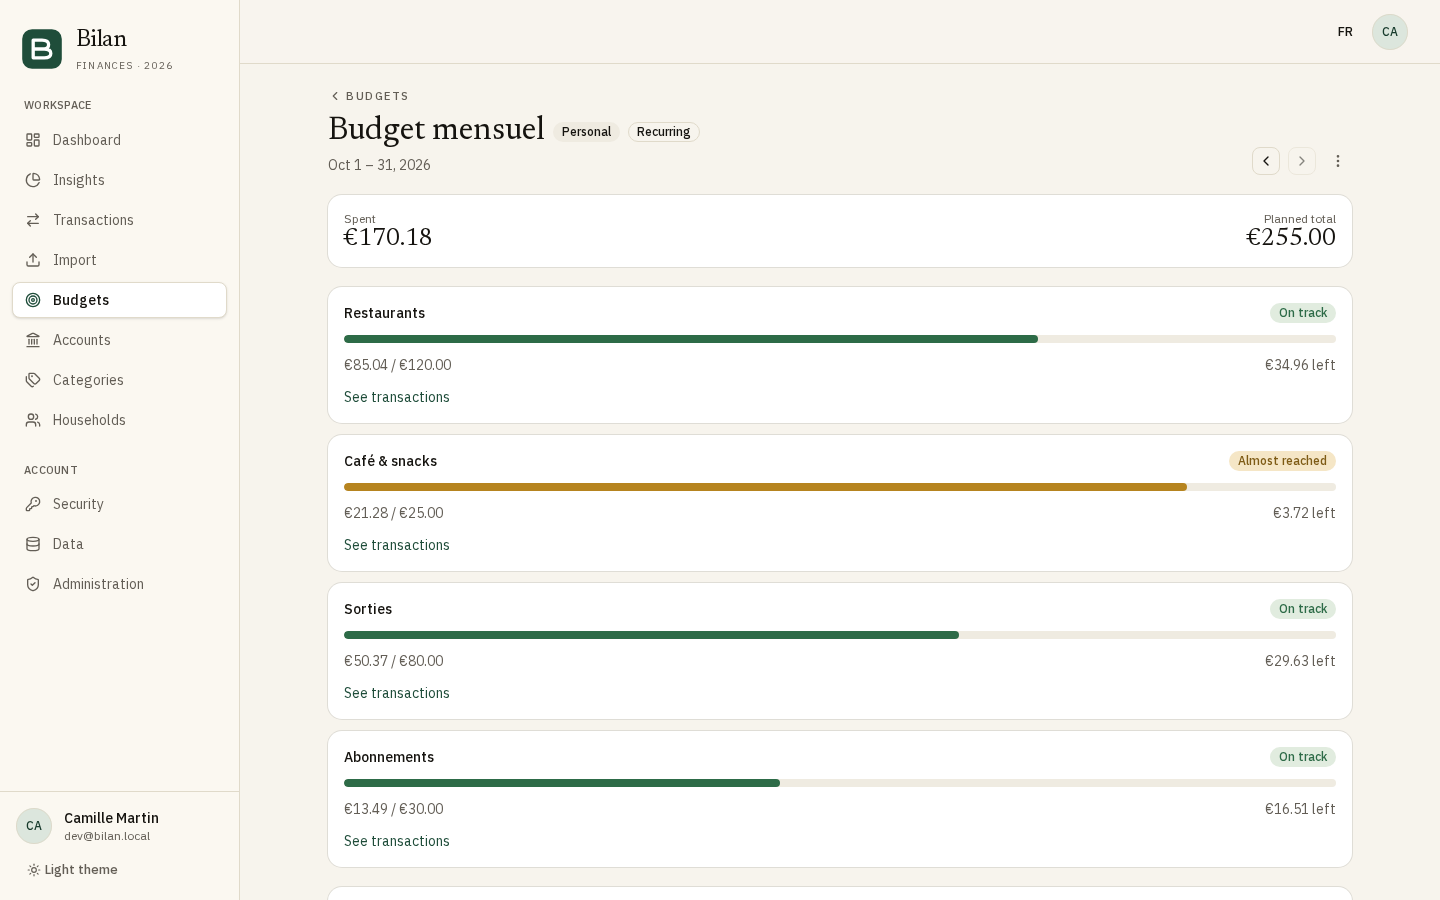
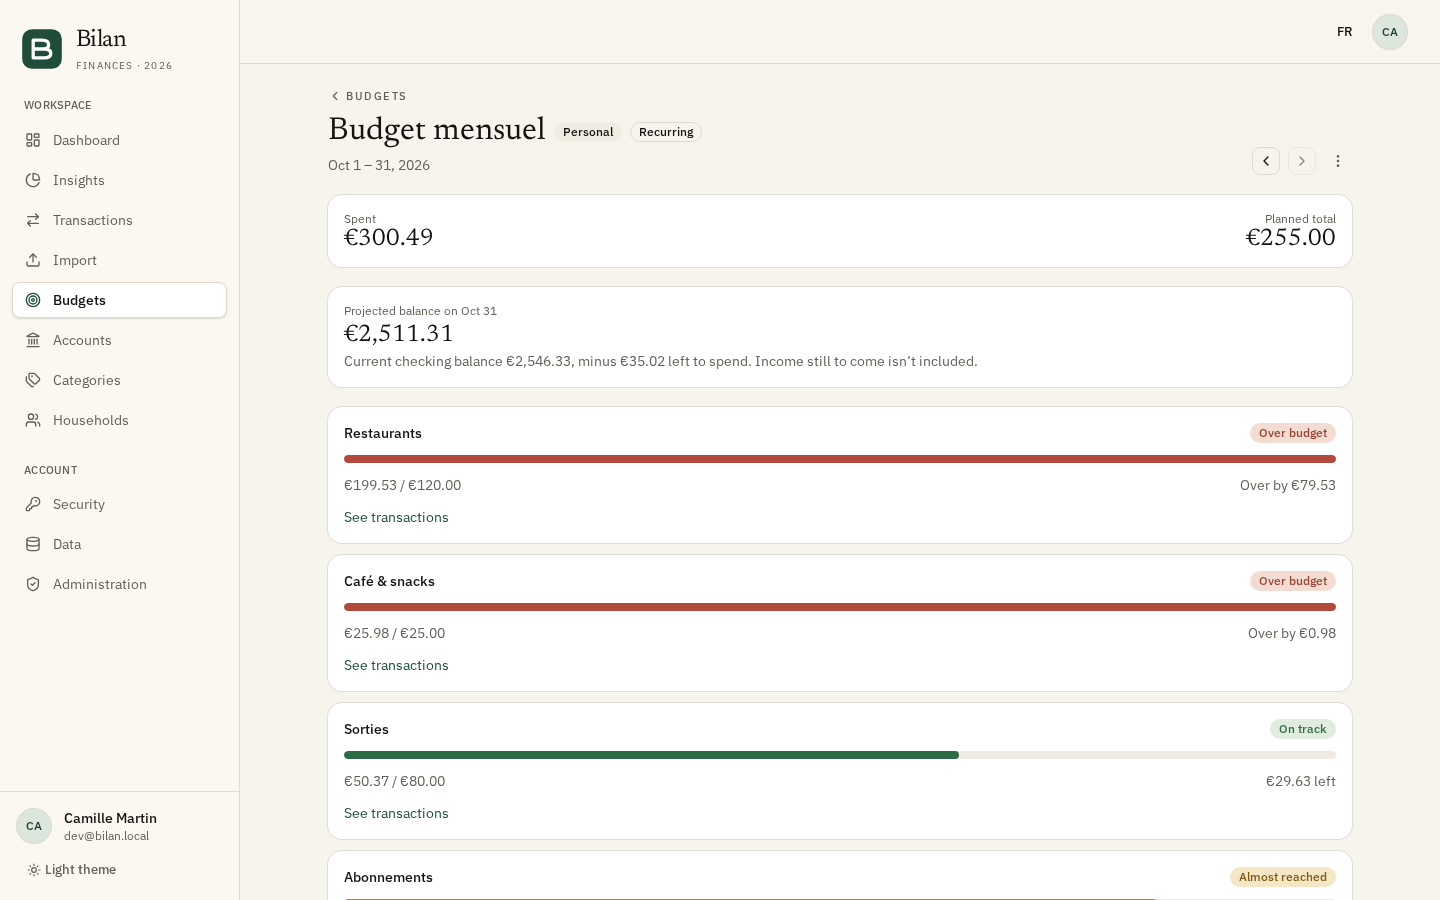
feat: show the projected end-of-period balance on the current budget

diff --git a/tests/integration/budgets.test.ts b/tests/integration/budgets.test.ts
@@ -1003,3 +1003,99 @@ describe("archive / description / line labels", () => {
     }
   });
 });
+
+describe("forecast (#347)", () => {
+  const user = "bud_forecast";
+  const inMarch = { now: new Date("2026-03-15T12:00:00.000Z") };
+  let checking: string;
+  let foodCat: string;
+
+  async function txFor(account: string, date: string, amount: number, categoryId: string | null) {
+    const s = buildSecureFields({ label: "T", rawLabel: "T" });
+    await db.transaction.create({
+      data: {
+        accountId: account,
+        date: new Date(date),
+        amount,
+        type: "OTHER",
+        labelEnc: s.labelEnc,
+        labelHash: s.labelHash,
+        rawLabelEnc: s.rawLabelEnc,
+        rawLabelHash: s.rawLabelHash,
+        categoryId,
+        createdById: user,
+      },
+    });
+  }
+
+  beforeAll(async () => {
+    await db.user.deleteMany({ where: { id: user } });
+    await db.user.create({ data: { id: user, email: `${user}@bilan.local` } });
+    checking = (
+      await db.bankAccount.create({
+        data: { ownerId: user, name: "Courant", type: "CHECKING", initialBalance: 1000 },
+      })
+    ).id;
+    const savings = await db.bankAccount.create({
+      data: { ownerId: user, name: "Livret", type: "SAVINGS", initialBalance: 5000 },
+    });
+    foodCat = (await db.category.create({ data: { userId: user, name: "Courses" } })).id;
+    const rentCat = (await db.category.create({ data: { userId: user, name: "Loyer" } })).id;
+    await txFor(checking, "2026-03-03T00:00:00.000Z", -150, foodCat);
+    await txFor(checking, "2026-03-01T00:00:00.000Z", -700, rentCat);
+    await txFor(savings.id, "2026-03-05T00:00:00.000Z", 100, null);
+    await db.budget.deleteMany({ where: { userId: user } });
+    await createBudget(
+      {
+        ...baseInput,
+        lines: [
+          { categoryId: foodCat, plannedAmount: 400 },
+          { categoryId: rentCat, plannedAmount: 600 },
+        ],
+      },
+      { id: user },
+    );
+  });
+
+  afterAll(async () => {
+    await db.budget.deleteMany({ where: { userId: user } });
+    await db.bankAccount.deleteMany({ where: { ownerId: user } });
+    await db.category.deleteMany({ where: { userId: user } });
+    await db.user.deleteMany({ where: { id: user } });
+  });
+
+  async function budgetId() {
+    return (await db.budget.findFirstOrThrow({ where: { userId: user } })).id;
+  }
+
+  it("projects the checking balance minus what the lines still plan to spend", async () => {
+    const detail = await getBudgetDetail(await budgetId(), user, inMarch);
+    // Checking 1000 − 150 − 700 = 150; food has 250 left, rent is over (counts 0).
+    expect(detail.forecast).toEqual({ balance: 150, remaining: 250, endBalance: -100 });
+  });
+
+  it("is absent outside the budget period", async () => {
+    const before = await getBudgetDetail(await budgetId(), user, {
+      now: new Date("2026-02-28T12:00:00.000Z"),
+    });
+    const after = await getBudgetDetail(await budgetId(), user, {
+      now: new Date("2026-04-01T12:00:00.000Z"),
+    });
+    expect(before.forecast).toBeNull();
+    expect(after.forecast).toBeNull();
+  });
+
+  it("is absent when the budget draws from no checking account", async () => {
+    await db.bankAccount.update({ where: { id: checking }, data: { archived: true } });
+    try {
+      expect((await getBudgetDetail(await budgetId(), user, inMarch)).forecast).toBeNull();
+    } finally {
+      await db.bankAccount.update({ where: { id: checking }, data: { archived: false } });
+    }
+  });
+
+  it("reaches the dashboard's current budget", async () => {
+    const current = await getCurrentBudget(user, inMarch.now);
+    expect(current?.detail.forecast?.endBalance).toBe(-100);
+  });
+});

diff --git a/src/server/services/budgets/index.ts b/src/server/services/budgets/index.ts
@@ -7,6 +7,7 @@ import { requireGroupRole } from "@/server/services/groups/roles";
 import { groupMemberships } from "@/server/services/groups/memberships";
 import { logEvent } from "@/server/services/audit";
 import {
+  accountBalances,
   listVisibleForUser,
   visibleAccountIds,
   visibleAccountRefs,
@@ -603,6 +604,7 @@ export type BudgetDetail = {
   plannedTotal: number;
   spentTotal: number;
   outOfBudget: { spent: number; count: number } | null; // INCLUDEs no line matches (#345)
+  forecast: BudgetForecast | null;
   groupId: string | null;
   canManage: boolean;
   previousId: string | null; // neighbouring periods of the same recurring series
@@ -745,10 +747,31 @@ async function budgetTransactions(
   );
 }
 
+export type BudgetForecast = { balance: number; remaining: number; endBalance: number };
+
+// Projected balance at the end of the current period (#347): the scope's checking
+// accounts minus what the lines still plan to spend. Income to come isn't anticipated.
+async function budgetForecast(
+  b: { userId: string | null; groupId: string | null; periodStart: Date; periodEnd: Date },
+  lines: { remaining: number }[],
+  now: Date,
+): Promise<BudgetForecast | null> {
+  if (now < b.periodStart || now > b.periodEnd) return null;
+  const accounts = await db.bankAccount.findMany({
+    where: { id: { in: await budgetAccountIds(b) }, type: "CHECKING", archived: false },
+    select: { id: true, initialBalance: true },
+  });
+  if (accounts.length === 0) return null;
+  const balances = await accountBalances(accounts);
+  const balance = round2([...balances.values()].reduce((sum, v) => sum + v, 0));
+  const remaining = round2(lines.reduce((sum, l) => sum + Math.max(l.remaining, 0), 0));
+  return { balance, remaining, endBalance: round2(balance - remaining) };
+}
+
 export async function getBudgetDetail(
   id: string,
   viewerId: string,
-  { withTransactions = true }: { withTransactions?: boolean } = {},
+  { withTransactions = true, now = new Date() }: { withTransactions?: boolean; now?: Date } = {},
 ): Promise<BudgetDetail> {
   const b = await readableOrThrow(id, viewerId);
   const { lineSums, outOfBudget, totalSum, counted } = await computeBudgetSpend(
@@ -789,6 +812,7 @@ export async function getBudgetDetail(
             spent: round2(-outOfBudget.reduce((sum, r) => sum + r.amount, 0)),
             count: outOfBudget.length,
           },
+    forecast: await budgetForecast(b, lines, now),
     canManage: canManageBudget(b.groupId, roleByGroup),
     ...(await seriesNeighbours(b)),
     transactions: withTransactions ? await budgetTransactions(counted, viewerId, b.groupId) : [],
@@ -819,7 +843,7 @@ export async function getCurrentBudget(
   });
   if (current.length === 0) return null;
   const first = current.find((b) => !b.groupId) ?? current[0];
-  const detail = await getBudgetDetail(first.id, userId, { withTransactions: false });
+  const detail = await getBudgetDetail(first.id, userId, { withTransactions: false, now });
   const names = await readableAccountNames(userId);
   const accountNames = Object.fromEntries(
     detail.lines.flatMap((l) =>

diff --git a/src/components/dashboard/budget-snapshot.tsx b/src/components/dashboard/budget-snapshot.tsx
@@ -8,7 +8,7 @@ import { OrdinalText } from "@/components/ordinal-text";
 import type { FlatCategory } from "@/components/transactions/category-tree";
 import type { getCurrentBudget } from "@/server/services/budgets";
 import { BudgetBar, statusStyle } from "@/components/budgets/budget-status";
-import { formatDateRange, formatMoney } from "@/lib/format";
+import { formatDateRange, formatDayMonth, formatMoney } from "@/lib/format";
 
 export type CurrentBudget = Awaited<ReturnType<typeof getCurrentBudget>>;
 
@@ -56,6 +56,22 @@ export async function BudgetSnapshot({
           <ChevronRight className="size-4" />
         </Link>
       </div>
+      {detail.forecast && (
+        <div
+          data-slot="budget-snapshot-forecast"
+          className="flex items-baseline justify-between gap-2 text-sm"
+        >
+          <span className="text-muted-foreground">
+            {t("forecast.title", { date: formatDayMonth(detail.periodEnd, locale) })}
+          </span>
+          <span
+            className="shrink-0 font-medium tabular-nums"
+            style={detail.forecast.endBalance < 0 ? { color: "var(--expense)" } : undefined}
+          >
+            {formatMoney(detail.forecast.endBalance, locale)}
+          </span>
+        </div>
+      )}
       <div className="flex flex-col gap-3.5">
         {detail.lines.slice(0, LINES_SHOWN).map((l) => {
           const cat = l.categoryId ? categories.get(l.categoryId) : undefined;

diff --git a/src/components/budgets/budget-detail.tsx b/src/components/budgets/budget-detail.tsx
@@ -124,6 +124,26 @@ export function BudgetDetail({
         </div>
       </Card>
 
+      {detail.forecast && (
+        <Card className="gap-1 p-4" data-slot="budget-forecast">
+          <div className="text-muted-foreground text-xs">
+            {t("forecast.title", { date: formatDayMonth(detail.periodEnd, locale) })}
+          </div>
+          <div
+            className="font-display text-2xl leading-none"
+            style={detail.forecast.endBalance < 0 ? { color: "var(--expense)" } : undefined}
+          >
+            {nf.format(detail.forecast.endBalance)}
+          </div>
+          <p className="text-muted-foreground text-sm">
+            {t("forecast.breakdown", {
+              balance: nf.format(detail.forecast.balance),
+              remaining: nf.format(detail.forecast.remaining),
+            })}
+          </p>
+        </Card>
+      )}
+
       <ul className="space-y-3">
         {detail.lines.map((line) => {
           const style = statusStyle(line.status);

diff --git a/docs/user-guide.fr.md b/docs/user-guide.fr.md
@@ -437,6 +437,8 @@ Astuce : **Atteint** demande le montant exact, au centime près. D’ici là, le
 
 Cliquez sur un budget pour ouvrir son détail : chaque ligne avec « Reste … » ou « Dépassé de … », **Voir les transactions** pour les lignes de catégorie, et la liste des transactions **Comptées dans ce budget**.
 
+Pendant la période en cours, **Solde prévu au …** estime le solde à la fin de la période : le solde actuel de vos comptes courants, moins ce que les lignes prévoient encore de dépenser (une ligne dépassée compte pour 0). Les comptes d’épargne et les revenus à venir n’entrent pas dans le calcul. Ce solde prévu s’affiche aussi sur la carte du budget en cours du tableau de bord.
+
 ### Renouveler un budget récurrent
 
 Quand la période d’un budget récurrent se termine, un bouton **Renouveler** sur sa carte crée la période suivante avec les mêmes lignes. Ce qui n’a pas été dépensé n’est pas reporté. Votre administrateur peut aussi mettre en place le renouvellement automatique. Les périodes d’une même série sont regroupées sur une carte : ouvrez **… autres périodes** pour les voir, ou utilisez les flèches de la page de détail.

diff --git a/docs/architecture.md b/docs/architecture.md
@@ -1032,6 +1032,8 @@ Archive (#260): a budget manager can archive/unarchive (`budgets.service.archive
 
 Explicit assignment: from any transaction, "Assign to a budget" menu → choose budget (mine or my groups', not archived) → mode INCLUDE/EXCLUDE → `budgets.assignTransaction` upserts `BudgetAssignment` (unique on `(budgetId, transactionId)`). The transaction's account must be readable; an INCLUDE into a group budget also needs the account to be the actor's own or shared with that group.
 
+Forecast (#347, `budgetForecast`): while `now` is within the period, `BudgetDetail.forecast` = `{ balance, remaining, endBalance }` with `balance` the current balance of the scope's non-archived `CHECKING` accounts, `remaining` = Σ max(line remaining, 0) and `endBalance = balance − remaining`. Income to come is not anticipated. Shown on the budget detail and the dashboard snapshot.
+
 The budget detail lists the latest 100 counted transactions in full to everyone who can read the budget, including a private transaction included in a group budget (§2.2); for a group budget, rows from an account neither shared with the group nor owned by a current member show masked.
 
 ### 5.8 Transaction links

diff --git a/docs/user-guide.md b/docs/user-guide.md
@@ -437,6 +437,8 @@ Tip: **Reached** needs the exact amount, to the cent. Until then the percentage 
 
 Click a budget to open its details: each line with "… left" or "Over by …", **See transactions** for category lines, and the list of transactions **Counted in this budget**.
 
+During the current period, **Projected balance on …** estimates your balance at the end of the period: the current balance of your checking accounts, minus what the lines still plan to spend (an over-budget line counts as 0). Savings accounts and income still to come are left out. The projected balance also shows on the dashboard's current budget card.
+
 ### Renew a recurring budget
 
 When a recurring budget's period ends, a **Renew** button on its card creates the next period with the same lines. Unspent amounts are not carried over. Your administrator can also set up automatic renewal. The periods of a series are grouped on one card: open **… other periods** to see them, or use the arrows on the details page.
